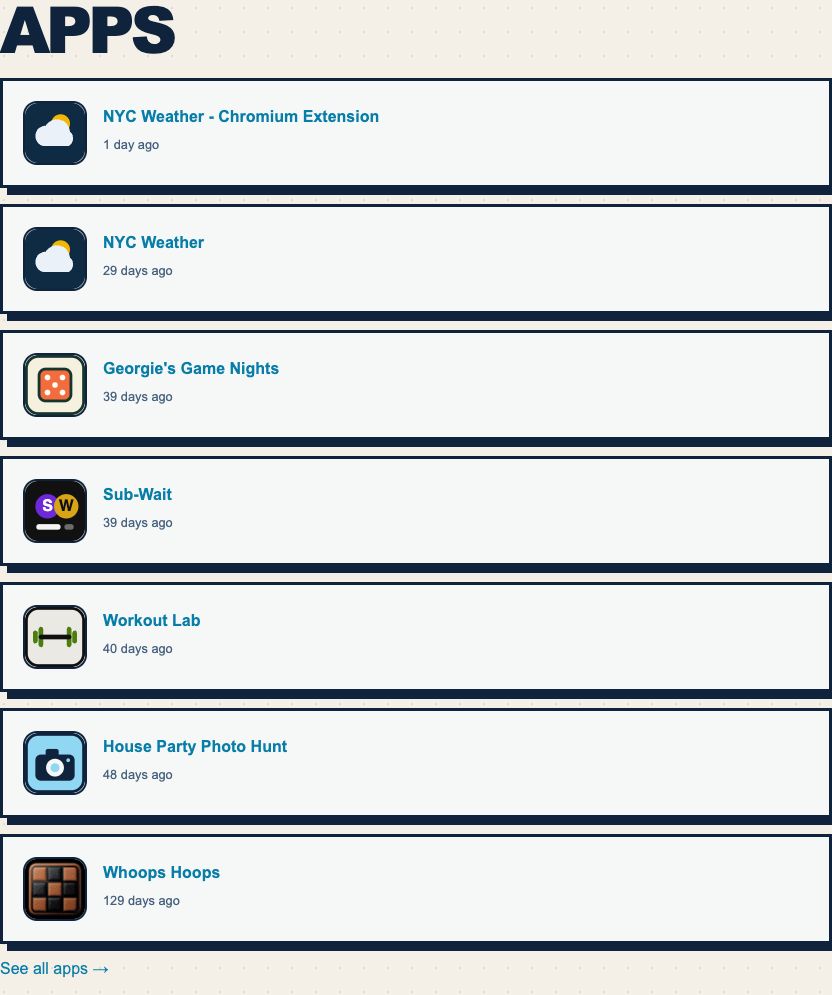
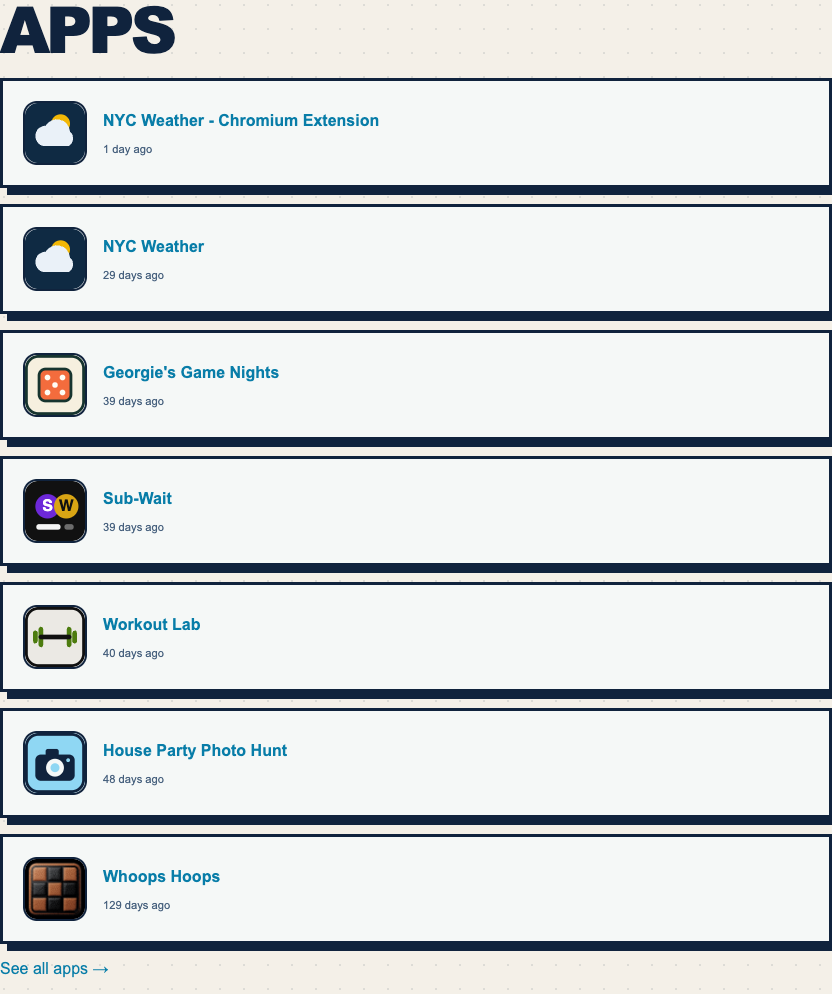
Reduce homepage relative date label size

diff --git a/src/App.module.css b/src/App.module.css
@@ -99,8 +99,8 @@
   }
 }
 
-.recentDate {
+.recentGrid .recentDate {
   margin: 0.65rem 0 0;
   color: var(--term-accent-alt, var(--text-muted));
-  font-size: 0.8rem;
+  font-size: 0.7rem;
 }
